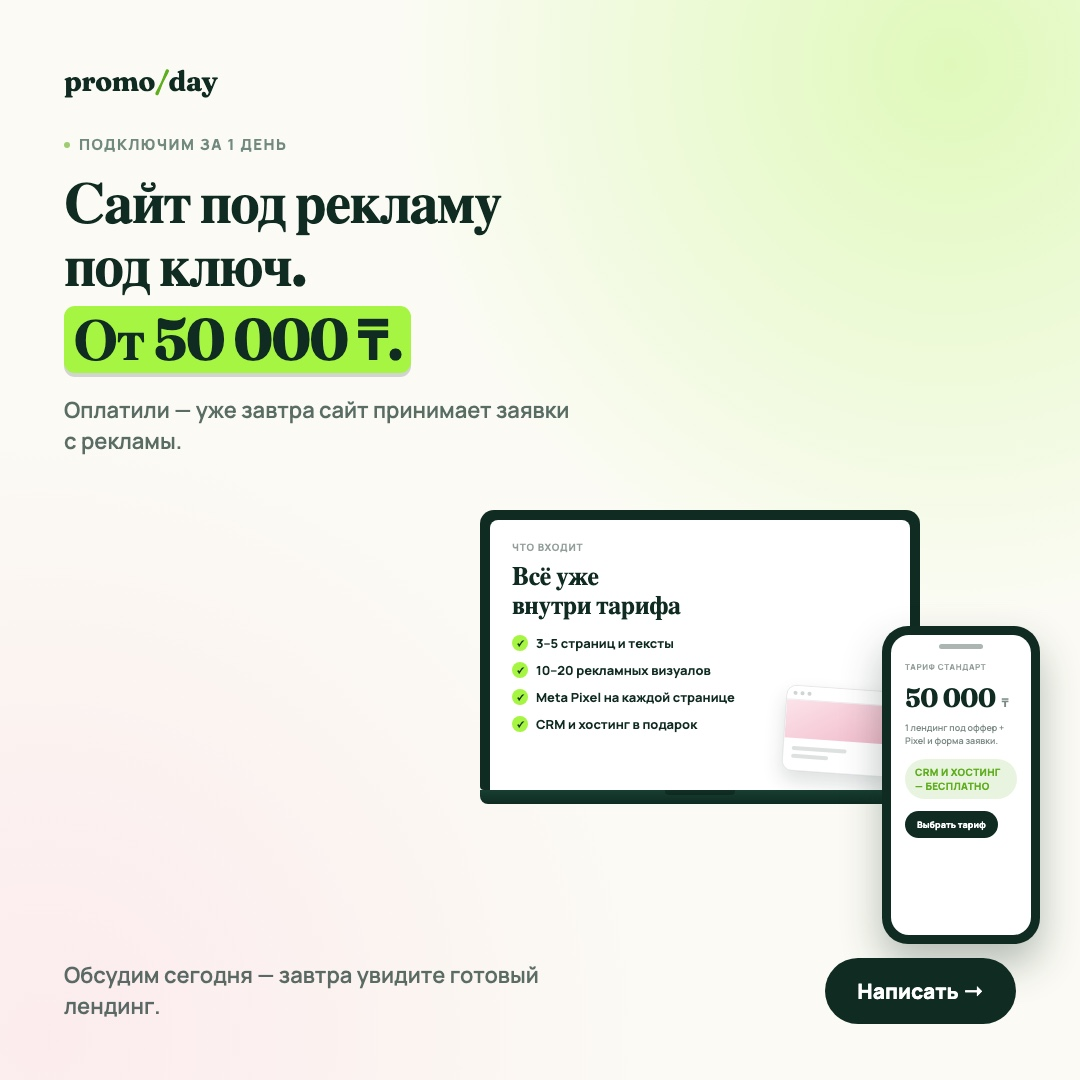
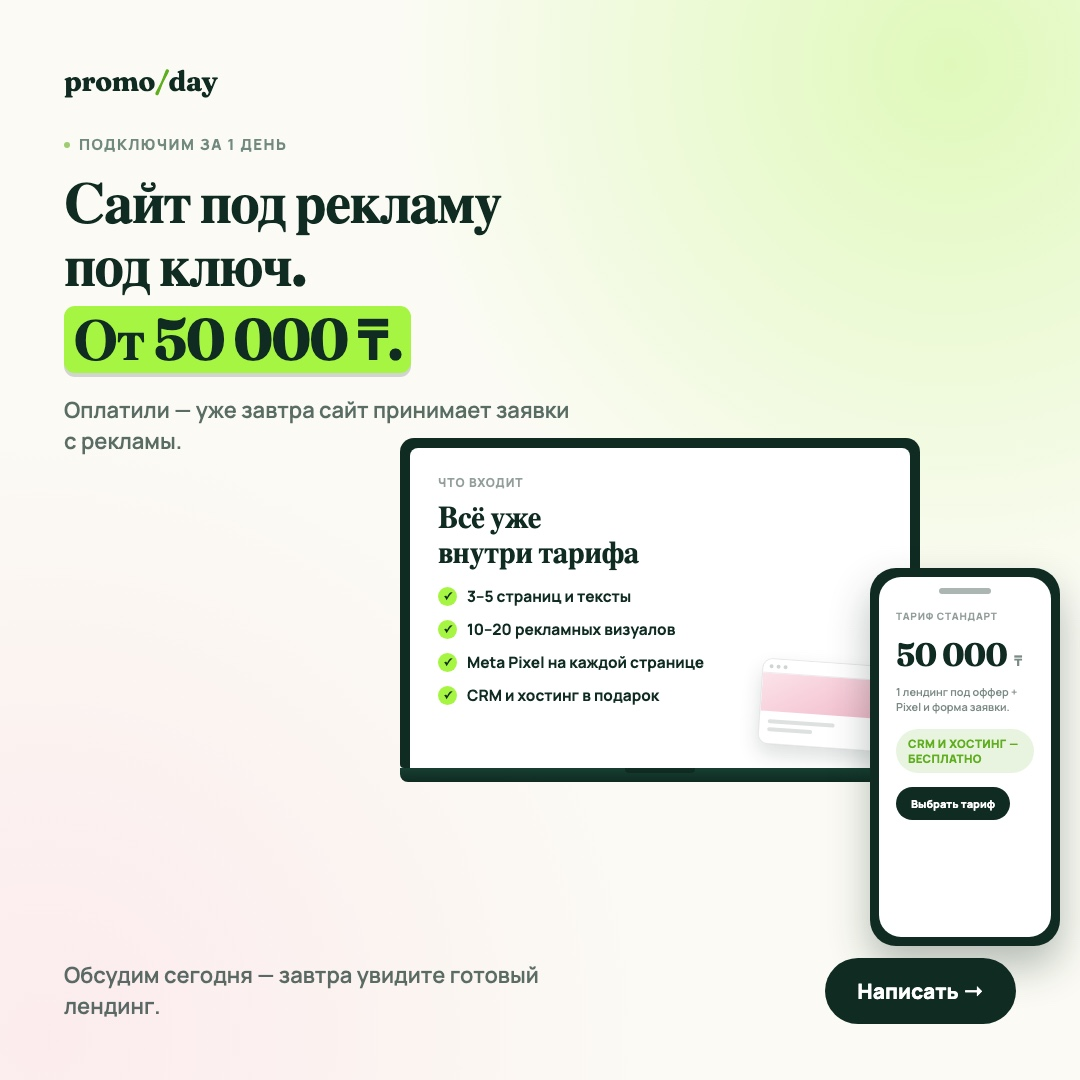
Increase laptop/phone device mockup size (~18%) and enlarge in-screen text proportionally in square promo 1

Changed region(s): [[0.3667, 0.3972, 1.0, 0.8861]]

diff --git a/social/promo-square-1.html b/social/promo-square-1.html
@@ -68,15 +68,15 @@
     /* device mockups */
     .devices{
         position:absolute;
-        right:40px;
+        right:20px;
         bottom:150px;
-        width:560px;
-        height:420px;
+        width:660px;
+        height:492px;
     }
     .laptop{
         position:absolute;
         left:0; top:0;
-        width:440px;
+        width:520px;
     }
     .laptop .screen{
         background:var(--ink);
@@ -86,13 +86,13 @@
     .laptop .inner{
         background:var(--paper);
         border-radius:8px 8px 0 0;
-        height:270px;
+        height:320px;
         overflow:hidden;
         position:relative;
-        padding:20px 22px;
+        padding:26px 28px;
     }
-    .laptop .inner .mini-h{max-width:200px}
-    .laptop .inner .mini-p{max-width:200px}
+    .laptop .inner .mini-h{max-width:240px}
+    .laptop .inner .mini-p{max-width:240px}
     .laptop .base{
         height:14px;
         background:linear-gradient(var(--ink-2),var(--ink));
@@ -110,24 +110,24 @@
         border-radius:0 0 4px 4px;
     }
 
-    .mini-eyebrow{font-size:10px;font-weight:800;text-transform:uppercase;letter-spacing:.08em;opacity:.45}
-    .mini-h{font-family:"Fraunces",serif;font-weight:700;font-size:26px;line-height:1.12;margin-top:8px;letter-spacing:-.02em}
+    .mini-eyebrow{font-size:12px;font-weight:800;text-transform:uppercase;letter-spacing:.08em;opacity:.45}
+    .mini-h{font-family:"Fraunces",serif;font-weight:700;font-size:31px;line-height:1.12;margin-top:9px;letter-spacing:-.02em}
     .mini-marker{background:var(--lime);border-radius:5px;padding:0 .12em;display:inline-block;margin-top:2px}
-    .mini-p{font-size:11.5px;font-weight:600;opacity:.55;margin-top:10px;max-width:230px;line-height:1.4}
-    .mini-btn{margin-top:16px;display:inline-block;background:var(--ink);color:#fff;font-size:11px;font-weight:800;padding:9px 16px;border-radius:999px}
+    .mini-p{font-size:13.5px;font-weight:600;opacity:.55;margin-top:12px;max-width:270px;line-height:1.4}
+    .mini-btn{margin-top:18px;display:inline-block;background:var(--ink);color:#fff;font-size:13px;font-weight:800;padding:11px 19px;border-radius:999px}
 
-    .checklist{margin-top:14px;display:flex;flex-direction:column;gap:9px}
-    .checklist .row{display:flex;align-items:center;gap:8px;font-size:13px;font-weight:700}
-    .checklist .row .tick{flex:none;width:16px;height:16px;border-radius:50%;background:var(--lime);display:flex;align-items:center;justify-content:center;font-size:9px;color:var(--ink)}
+    .checklist{margin-top:16px;display:flex;flex-direction:column;gap:11px}
+    .checklist .row{display:flex;align-items:center;gap:10px;font-size:15.5px;font-weight:700}
+    .checklist .row .tick{flex:none;width:19px;height:19px;border-radius:50%;background:var(--lime);display:flex;align-items:center;justify-content:center;font-size:10.5px;color:var(--ink)}
 
-    .price-tag{margin-top:10px;display:flex;align-items:baseline;gap:6px;white-space:nowrap}
-    .price-tag .num{font-family:"Fraunces",serif;font-weight:700;font-size:26px;letter-spacing:-.02em}
-    .price-tag .cur{font-size:13px;font-weight:700;opacity:.55}
-    .free-badge{margin-top:12px;display:inline-block;background:rgba(95,174,30,.14);color:var(--lime-deep);font-size:10px;font-weight:800;text-transform:uppercase;letter-spacing:.03em;padding:6px 10px;border-radius:999px}
+    .price-tag{margin-top:12px;display:flex;align-items:baseline;gap:7px;white-space:nowrap}
+    .price-tag .num{font-family:"Fraunces",serif;font-weight:700;font-size:32px;letter-spacing:-.02em}
+    .price-tag .cur{font-size:15px;font-weight:700;opacity:.55}
+    .free-badge{margin-top:14px;display:inline-block;background:rgba(95,174,30,.14);color:var(--lime-deep);font-size:11.5px;font-weight:800;text-transform:uppercase;letter-spacing:.03em;padding:7px 12px;border-radius:999px}
     .mini-card{
         position:absolute;
-        right:16px; bottom:16px;
-        width:110px;
+        right:20px; bottom:20px;
+        width:130px;
         border-radius:10px;
         overflow:hidden;
         background:var(--paper);
@@ -145,8 +145,8 @@
 
     .phone{
         position:absolute;
-        right:0; bottom:-14px;
-        width:158px;
+        right:0; bottom:-16px;
+        width:190px;
     }
     .phone .frame{
         background:var(--ink);
@@ -156,20 +156,20 @@
     }
     .phone .pscreen{
         background:var(--paper);
-        border-radius:18px;
-        height:300px;
+        border-radius:22px;
+        height:360px;
         overflow:hidden;
         position:relative;
-        padding:18px 14px;
+        padding:22px 17px;
     }
     .phone .notch{
-        position:absolute; top:9px; left:50%; transform:translateX(-50%);
-        width:44px; height:5px; border-radius:4px; background:rgba(15,43,34,.35);
+        position:absolute; top:11px; left:50%; transform:translateX(-50%);
+        width:52px; height:6px; border-radius:4px; background:rgba(15,43,34,.35);
     }
-    .phone .mini-eyebrow{font-size:8px;margin-top:8px}
-    .phone .mini-h{font-size:17px; margin-top:6px}
-    .phone .mini-p{font-size:9px; margin-top:8px; max-width:120px}
-    .phone .mini-btn{font-size:9px; padding:7px 12px; margin-top:12px}
+    .phone .mini-eyebrow{font-size:10px;margin-top:10px}
+    .phone .mini-h{font-size:20px; margin-top:7px}
+    .phone .mini-p{font-size:11px; margin-top:10px; max-width:145px}
+    .phone .mini-btn{font-size:11px; padding:9px 15px; margin-top:14px}
     .phone .mini-photo{
         margin-top:14px;
         height:60px;
